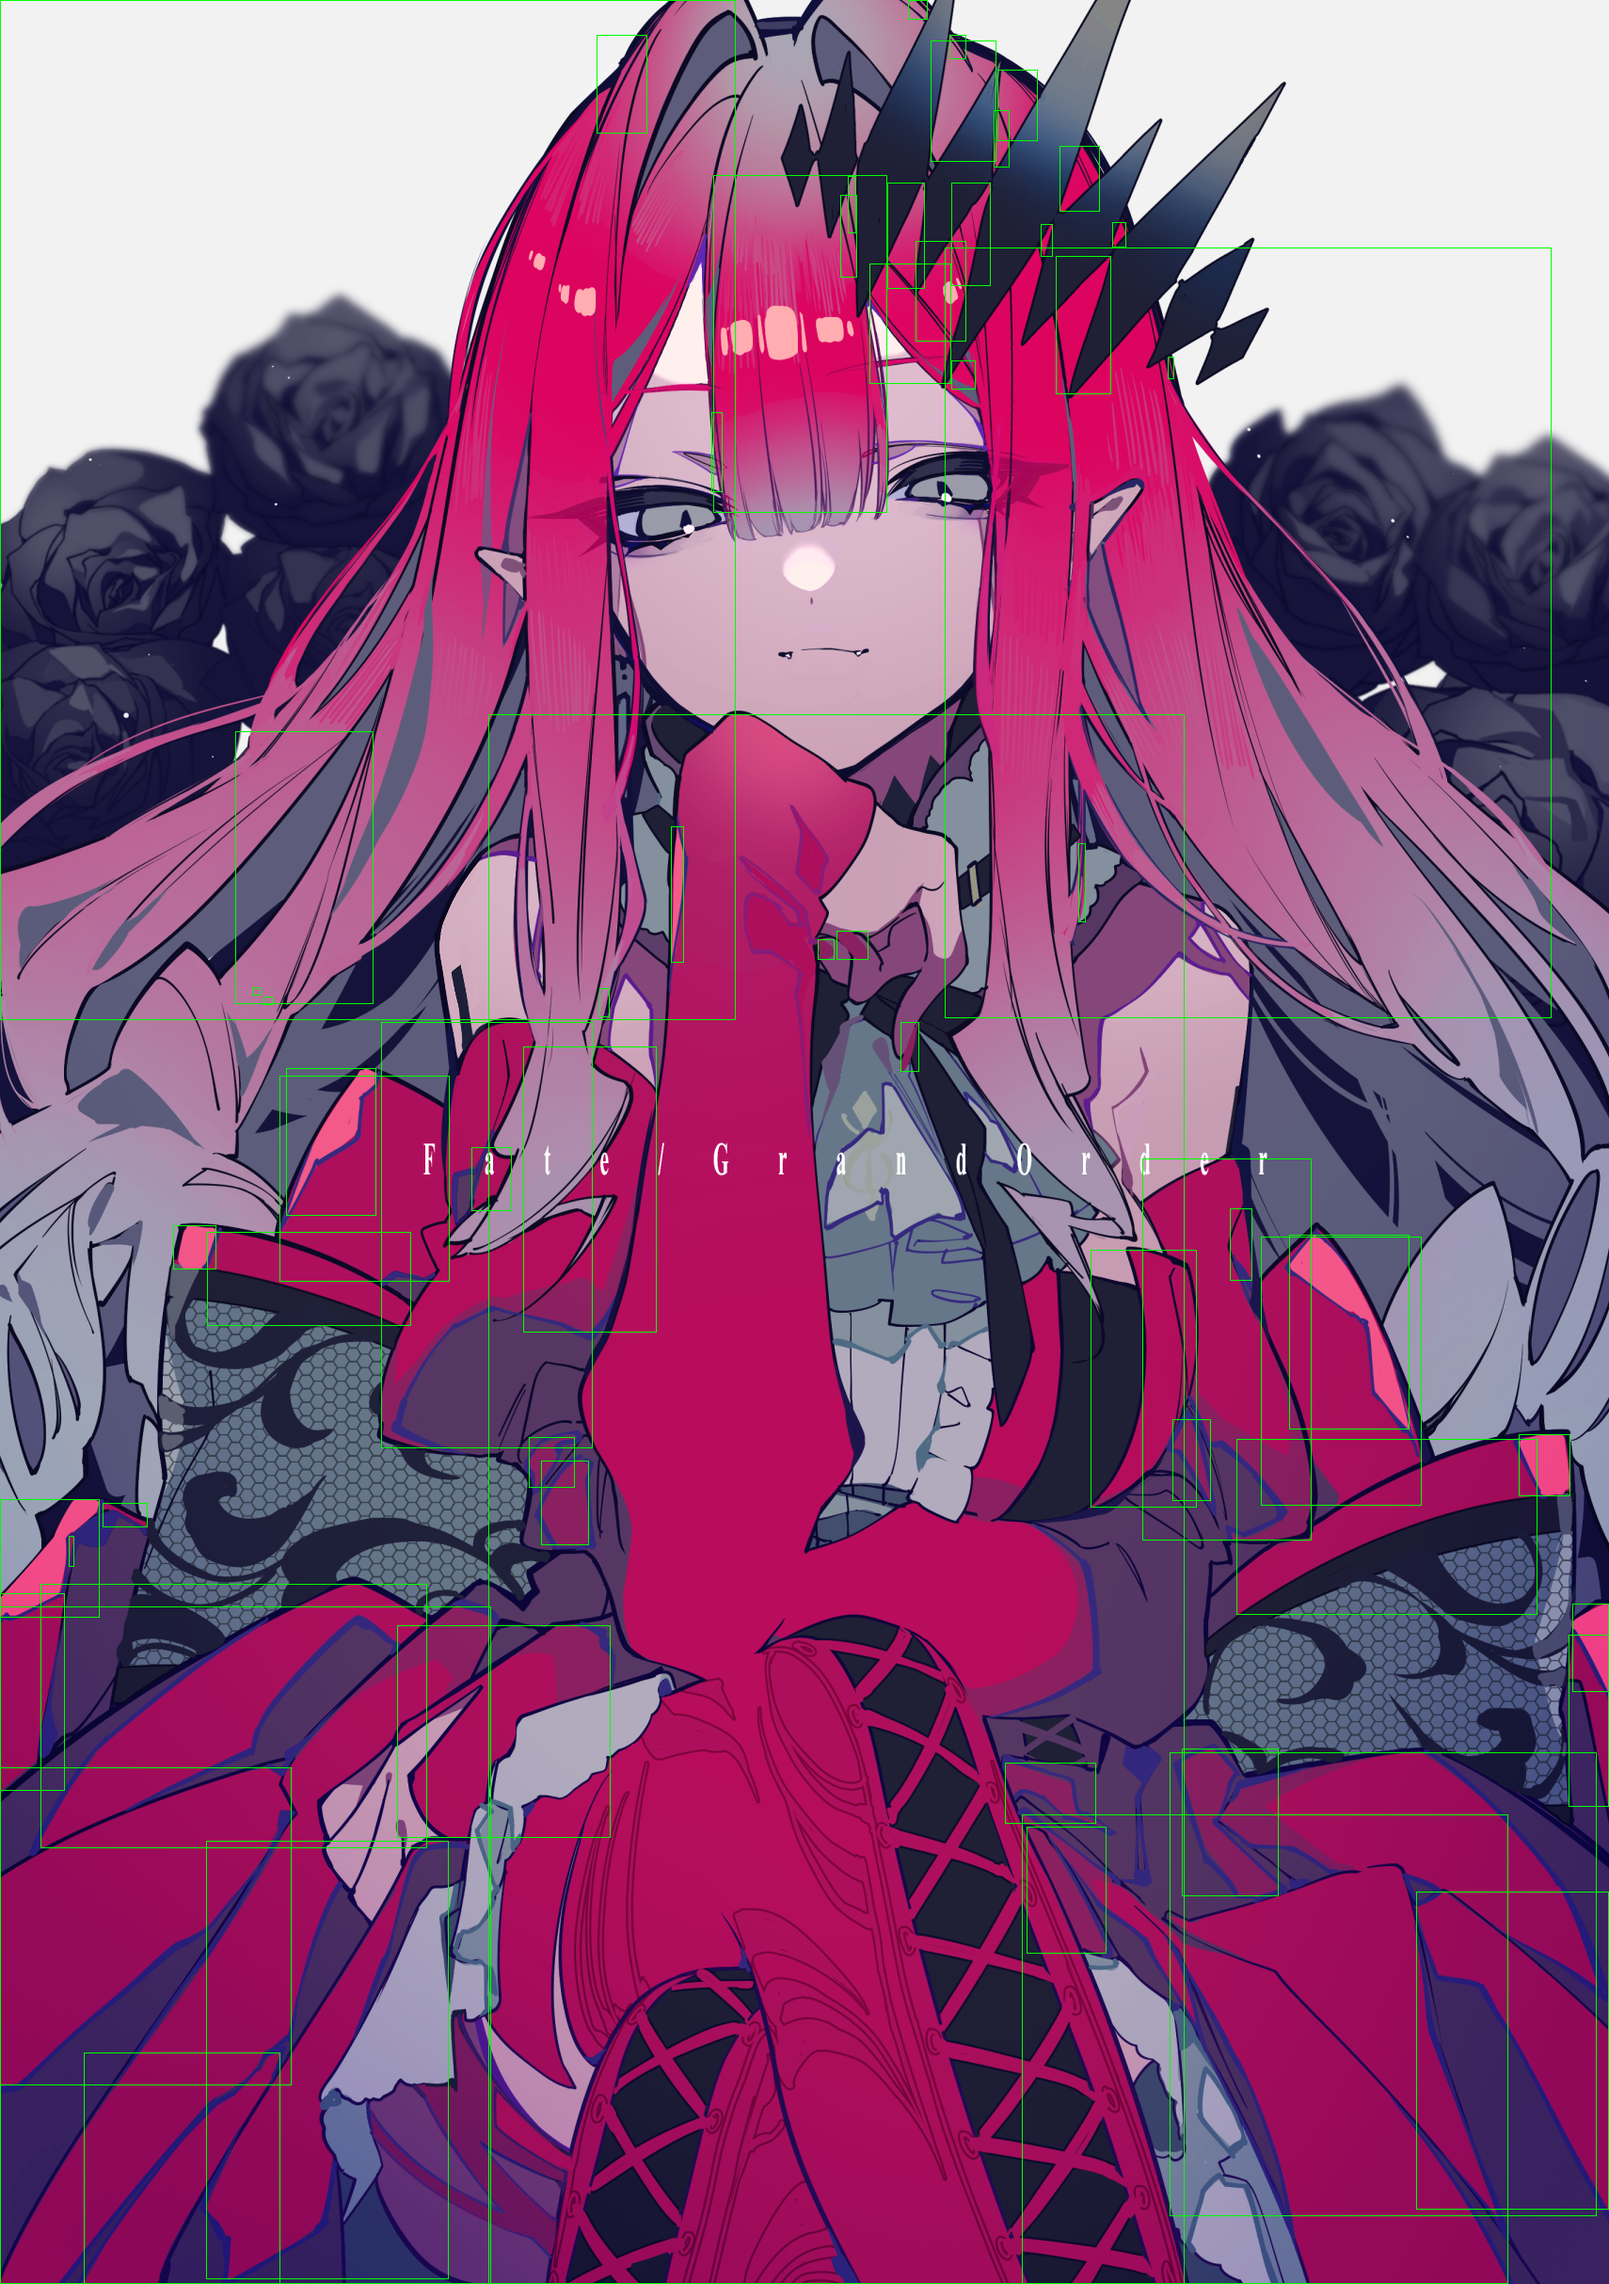
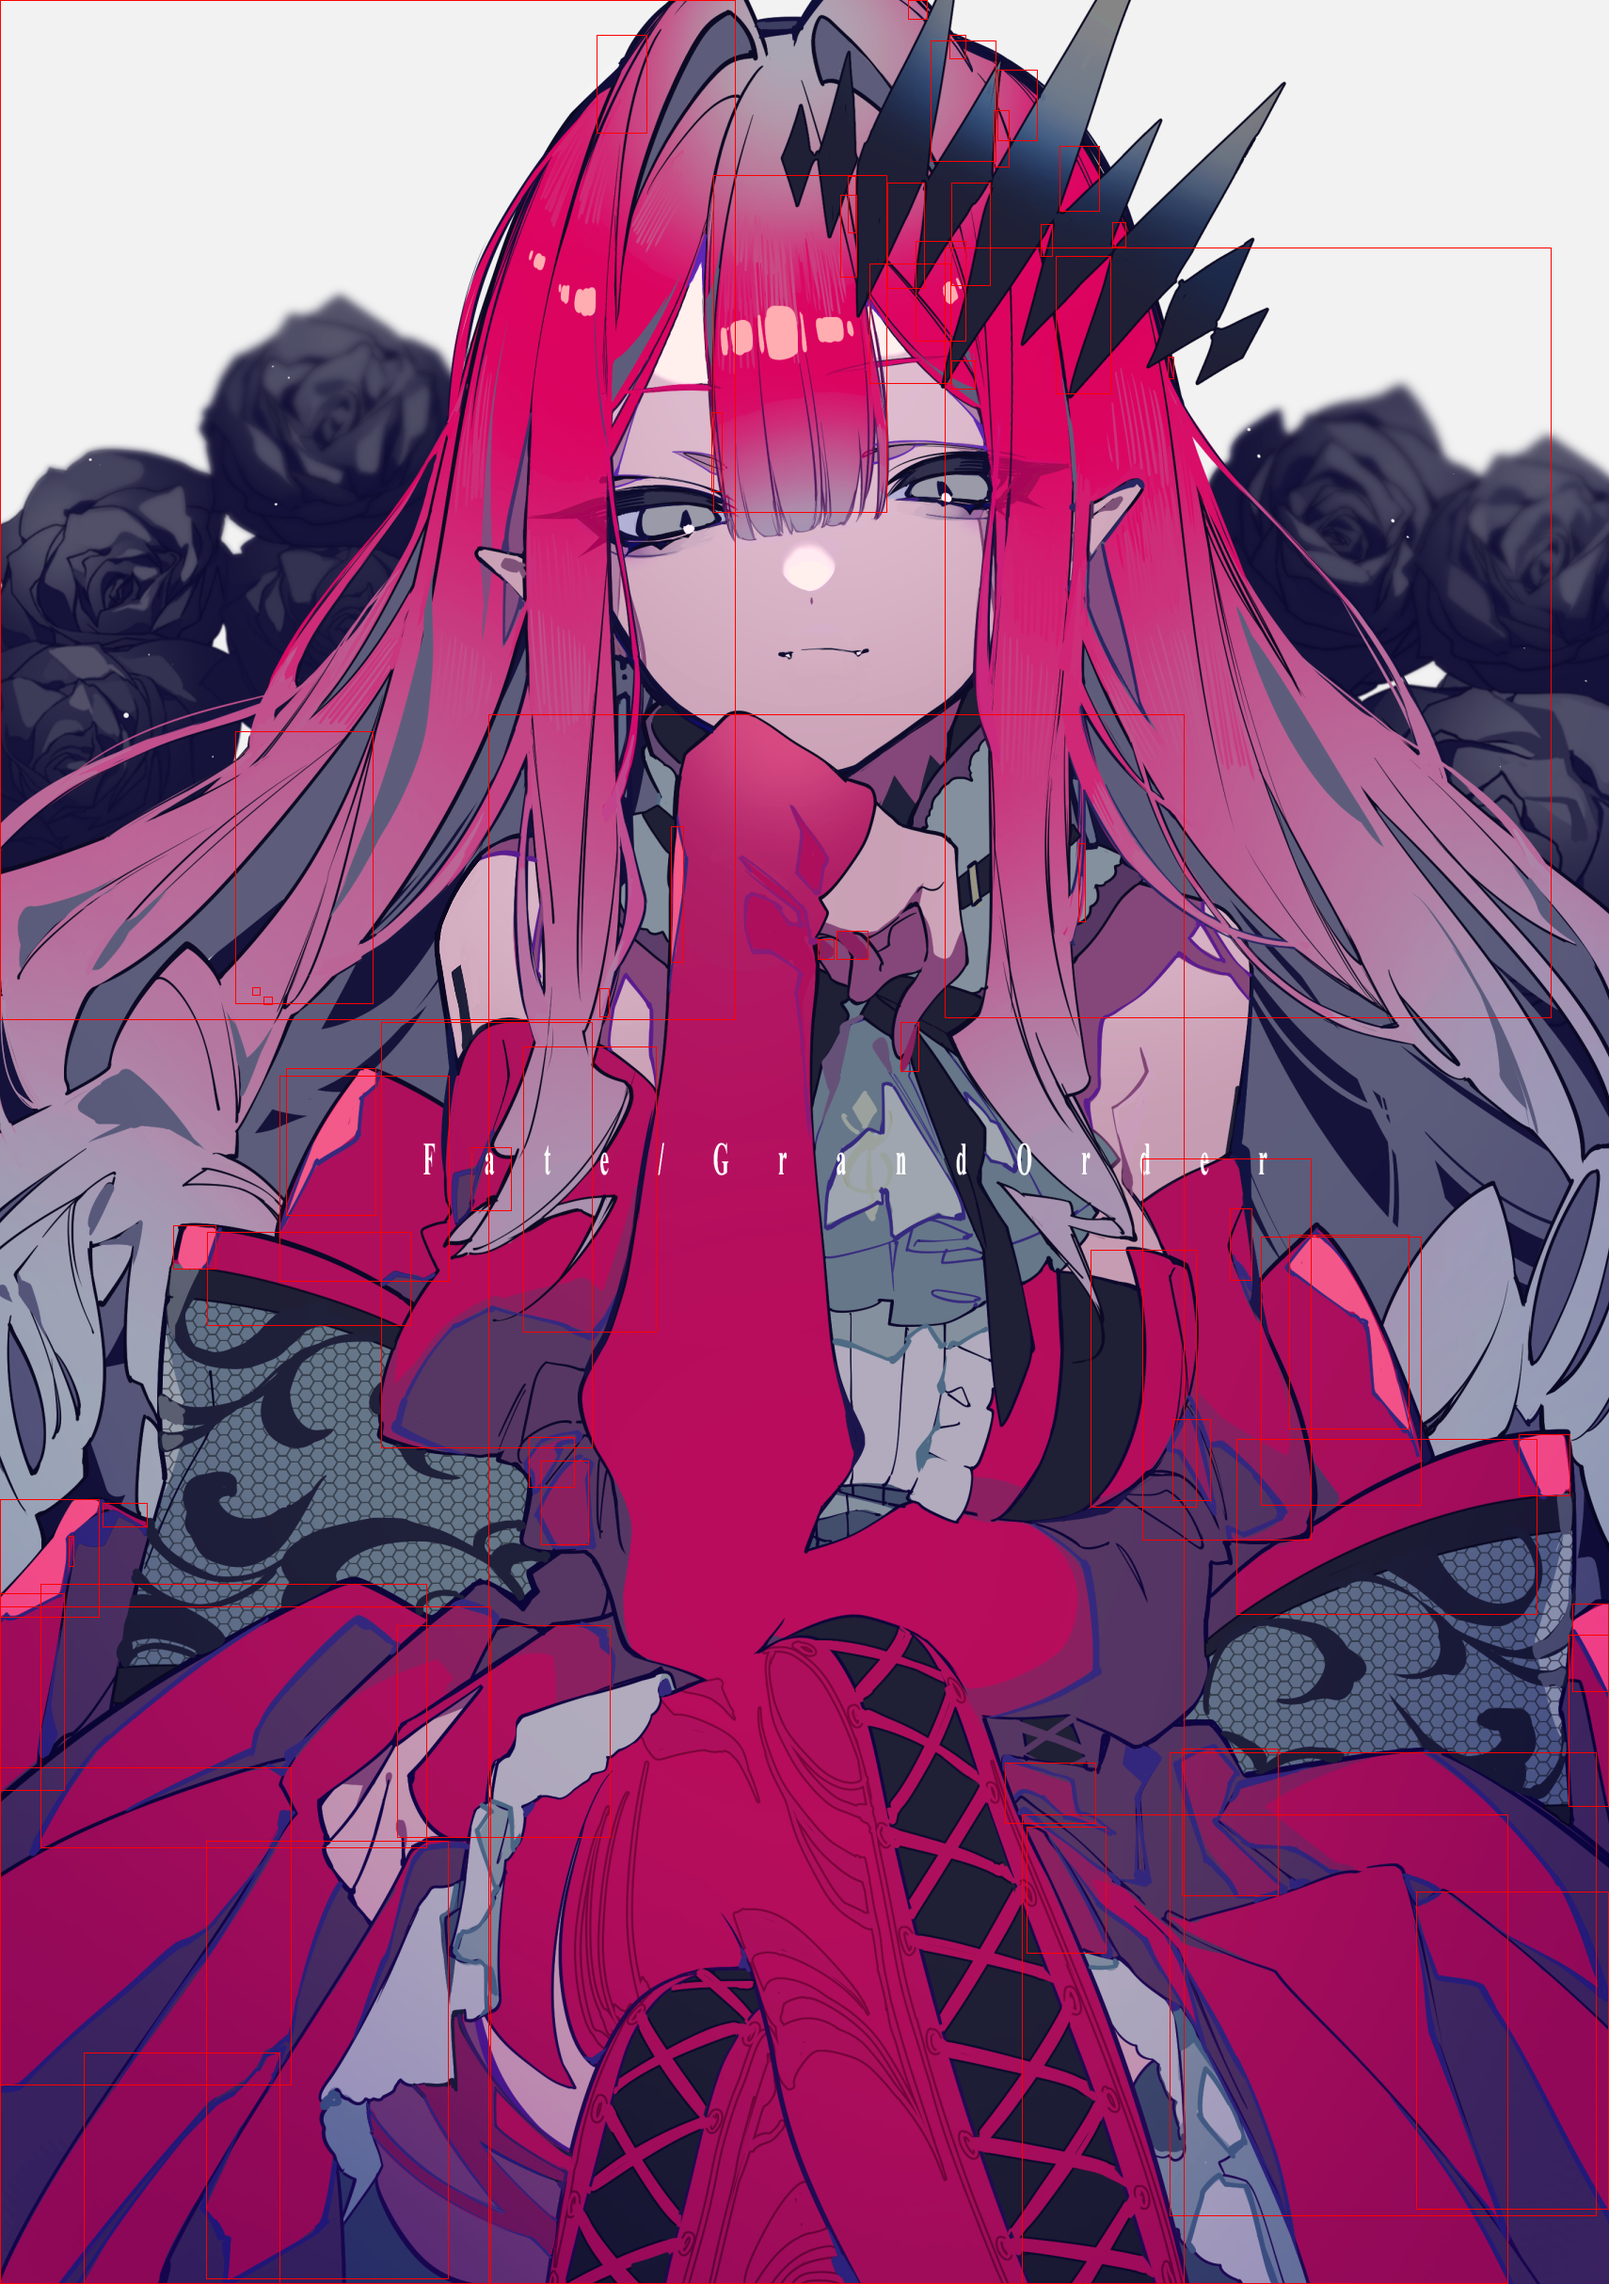
代码初步完成

Changed region(s): [[0.9918, 0.8344, 1.0, 0.958], [0.9918, 0.7726, 1.0, 0.8035]]

diff --git a/src/main.cpp b/src/main.cpp
@@ -22,7 +22,7 @@ int main(){
     cv::GaussianBlur(image, gaussianBlurredImage, cv::Size(9, 9), 1.5); // 高斯滤波
     output(gaussianBlurredImage, "..//output//Gaussianblur.png");
     cv::Mat redBGRImage;
-    cv::Mat mask; // 掩码，就是一张黑白图像，像是粥解包出来的通道图一样
+    cv::Mat mask; // 掩码，就是一张黑白图像
     cv::Scalar lowerRed(0, 0, 100); // 红色的下限
     cv::Scalar upperRed(120, 120, 255); // 红色的上限
     // 创建掩码
@@ -65,9 +65,9 @@ int main(){
         {
             // 画外接矩形
             cv::Rect boundingBox = cv::boundingRect(contours[i]);
-            cv::rectangle(imageWithBoundingBox, boundingBox, cv::Scalar(0, 255, 0), 1); // 绿色边界框，线宽1
+            cv::rectangle(imageWithBoundingBox, boundingBox, cv::Scalar(0, 0, 255), 1); // 红色边界框，线宽1
             // 画轮廓
-            cv::drawContours(contourImage, contours, (int)i, cv::Scalar(0, 255, 0), 1.2);
+            cv::drawContours(contourImage, contours, (int)i, cv::Scalar(0, 0, 255), 1.2);
 
             // 创建一个掩码图像用于距离变换
             cv::Mat contourMask = cv::Mat::zeros(mask.size(), CV_8UC1);
@@ -90,9 +90,118 @@ int main(){
 
             contourIdx++;
         }
+
     }
     output(contourImage, "..//output//contour.png");
     output(imageWithBoundingBox, "..//output//bounding box.png");
+    //灰度图使用最开始创建的那个
+    cv::Mat binaryImage;
+    double thresh = 200; // 阈值，可调
+    double maxValue = 255; // 二值化后最大值
+    cv::threshold(grayImage, binaryImage, thresh, maxValue, cv::THRESH_BINARY);
+    output(binaryImage, "..//output//binary.png");
+    // 创建卷积核
+    int morph_size = 2; // 核大小
+    cv::Mat element = cv::getStructuringElement(cv::MORPH_RECT, // 核的形状，这里采用矩形
+                                                cv::Size(2 * morph_size + 1, 2 * morph_size + 1) // 大小
+                                                );
+
+    // 第一次腐蚀，消除小白点噪声
+    cv::Mat firstEroded;
+    cv::erode(binaryImage, firstEroded, element);
+
+    // 第一次膨胀，将图像膨胀到原来大小
+    cv::Mat firstDilated;
+    cv::dilate(firstEroded, firstDilated, element);
+
+    // 第二次膨胀，去除黑色噪点
+    cv::Mat secondDilated;
+    cv::dilate(firstDilated, secondDilated, element);
+
+    // 第二次腐蚀，腐蚀到原来大小
+    cv::Mat secondEroded;
+    cv::erode(secondDilated, secondEroded, element);
+
+    output(firstDilated, "..//output//dilated.png");
+    output(secondEroded, "..//output//eroded.png");
+
+    // 设置种子点
+    cv::Point seedPoint(0, 0); // 根据需要调整种子点的位置
+
+    // 设置填充颜色（对于二值图像，填充颜色为0或255）
+    int newColor = 128; // 中间灰色
+
+    // 定义填充的阈值范围（对于二值图像，通常设置为0）
+    int loDiff = 0;
+    int upDiff = 0;
+
+    // 漫水填充
+    cv::Mat dst = secondEroded.clone();
+    cv::floodFill(  
+                    dst, 
+                    seedPoint, //起始点
+                    cv::Scalar(newColor), // 填充颜色
+                    0, // 是否存储边界矩形
+                    cv::Scalar(loDiff), 
+                    cv::Scalar(upDiff)
+                );
+
+    output(dst, "..//output//flood fill.png");
+
+    // 文字在之前已经绘制完成，现在进行方圆的绘制
+    cv::Mat paintingImage = cv::Mat::zeros(800, 800, CV_8UC3);
+    // 设置圆心和半径
+    cv::Point center(400, 400); // 圆心坐标
+    int radius = 50; // 半径
+    // 绘制圆
+    cv::circle(paintingImage, center, radius, cv::Scalar(0, 0, 255), 2); // 2 表示线条粗细
+
+    // 设置矩形的左上角和右下角坐标
+    cv::Point topLeft(200, 200);
+    cv::Point bottomRight(600, 600);
+    // 绘制矩形
+    cv::rectangle(paintingImage, topLeft, bottomRight, cv::Scalar(255, 0, 0), 2); // 2 表示线条粗细
+    output(paintingImage, "..//output//painting.png");
+
+    // 红色的外轮廓绘制了，此处省略
+
+    // 获取图像中心点
+    cv::Point2f centerToRatate(image.cols / 2.0, image.rows / 2.0);
+
+    // 设置旋转角度
+    double angle = 35.0; // 旋转角度，可以根据需要调整
+
+    // 设置缩放比例
+    double scale = 1.0; // 缩放比例，可以根据需要调整
+
+    // 计算旋转矩阵
+    cv::Mat rotationMatrix = cv::getRotationMatrix2D(centerToRatate, angle, scale);
+
+    // 计算旋转后图像的边界，为了防止丢失信息
+    cv::Rect bbox = cv::RotatedRect(centerToRatate, image.size(), angle).boundingRect();
+
+    // 调整旋转矩阵中的平移部分
+    rotationMatrix.at<double>(0, 2) += bbox.width / 2.0 - centerToRatate.x;
+    rotationMatrix.at<double>(1, 2) += bbox.height / 2.0 - centerToRatate.y;
+
+    // 应用旋转矩阵
+    cv::Mat rotatedImage;
+    cv::warpAffine(image, rotatedImage, rotationMatrix, bbox.size());
+
+    output(rotatedImage, "..//output//rotated.png");
+
+    // 获取图像的宽度和高度
+    int width = image.cols;
+    int height = image.rows;
+
+    // 定义裁剪区域（左上角 1/4 区域）
+    cv::Rect roi(0, 0, width / 2, height / 2);
+
+    // 裁剪图像
+    cv::Mat croppedImage = image(roi);
+
+    output(croppedImage, "..//output//cropped.png");
+
     return 0;
 }
 int output(cv::Mat image, string outputPath){
